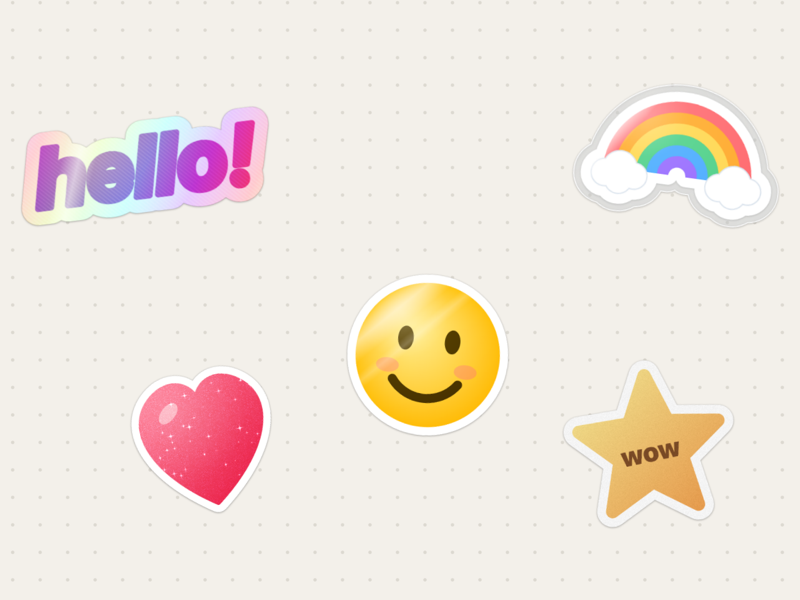
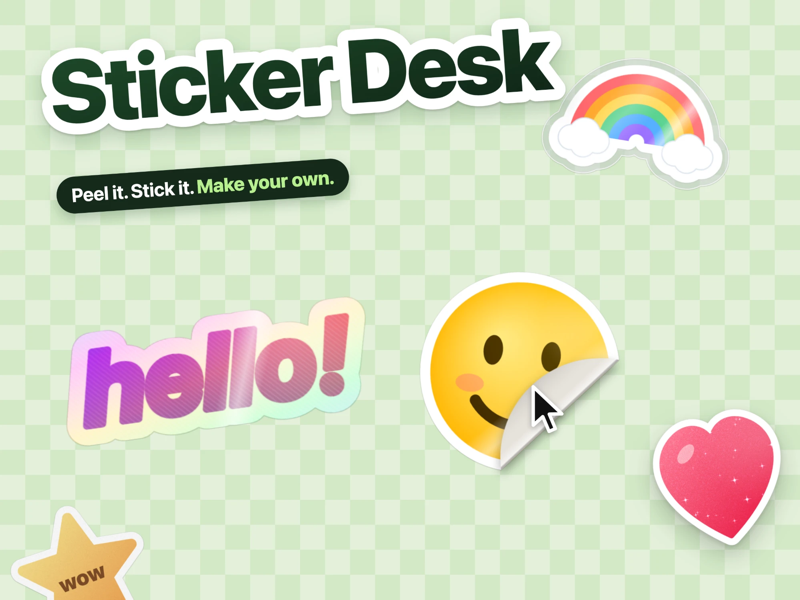
Sticker Desk: new card thumbnail

diff --git a/index.html b/index.html
@@ -229,8 +229,8 @@
         <span data-m="otc-btn" style="display: inline-flex; align-items: center; gap: 8px; padding: 12px 22px; background: #1a1a1a; color: #ffffff; border-radius: 999px; font-size: 14px; font-weight: 600; white-space: nowrap;">Play Game <span aria-hidden="true">→</span></span>
       </a>
       <a href="/sticker-desk/" target="_blank" rel="noopener" data-reveal="" data-m="otc-card" style="display: grid; grid-template-columns: clamp(180px, 18vw, 240px) minmax(0, 1fr) auto; gap: clamp(20px, 3vw, 40px); align-items: center; padding: clamp(14px, 1.6vw, 18px) clamp(18px, 3vw, 36px) clamp(14px, 1.6vw, 18px) clamp(14px, 1.6vw, 18px); background: #f5f7f5; border-radius: 10px; color: #1a1a1a; transition: transform .22s cubic-bezier(.34,1.56,.64,1), box-shadow .22s ease-out;" style-hover="transform: translateY(-4px); box-shadow: 0 22px 44px -22px rgba(26,26,26,0.28);">
-        <div data-m="otc-thumb" style="overflow: hidden; border-radius: 6px; aspect-ratio: 4 / 3; background: #f3f0ea;">
-          <img src="/sticker-desk/thumb.png" alt="Sticker Desk: holographic, glitter and gloss stickers on a dotted desk" loading="lazy" style="display: block; width: 100%; height: 100%; object-fit: cover;" />
+        <div data-m="otc-thumb" style="overflow: hidden; border-radius: 6px; aspect-ratio: 4 / 3; background: #dcedd5;">
+          <img src="/sticker-desk/thumb.png" alt="Sticker Desk: a smiley sticker peeling back, with hello, rainbow, heart and star stickers on a green checked background" loading="lazy" style="display: block; width: 100%; height: 100%; object-fit: cover;" />
         </div>
         <div style="display: flex; flex-direction: column; align-items: flex-start; gap: 8px;">
           <span style="font-size: 12px; letter-spacing: 0.08em; text-transform: uppercase; color: #6c726c; font-weight: 500;">Personal project · Playground</span>
